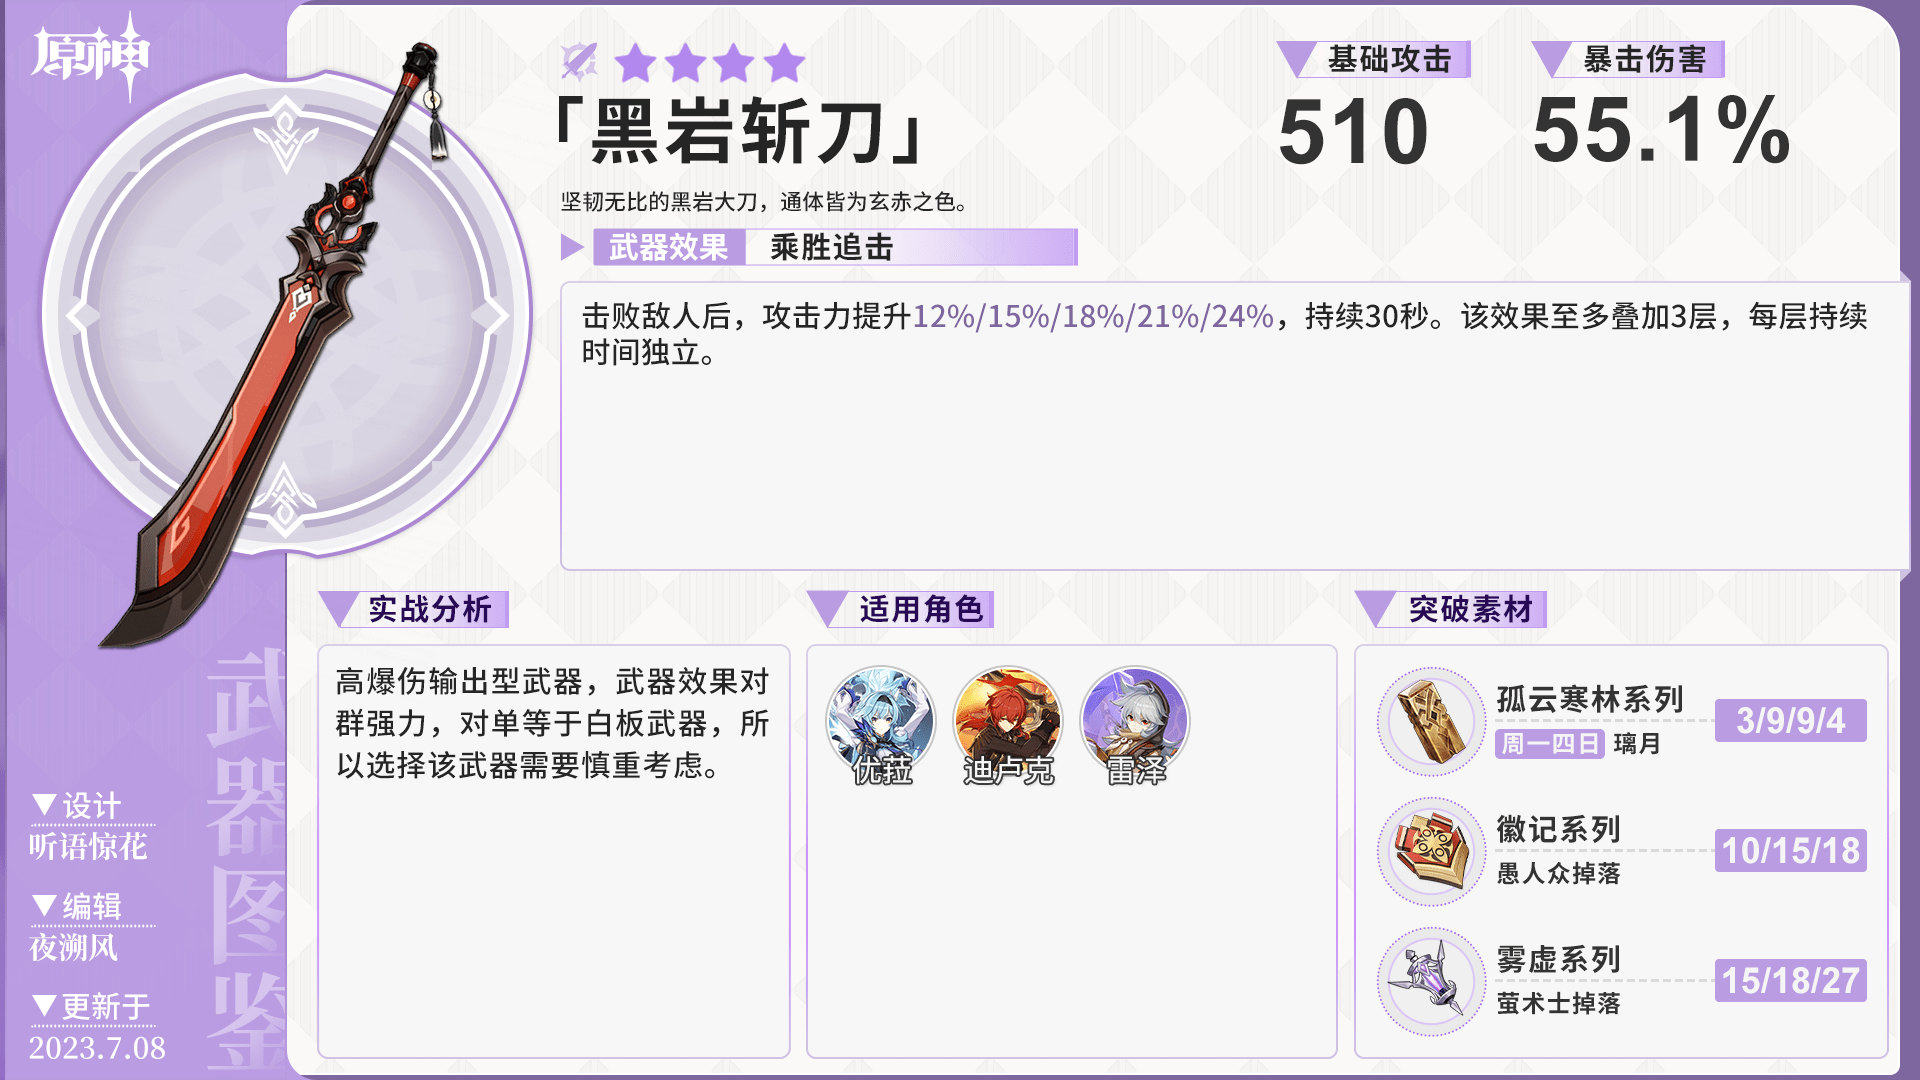
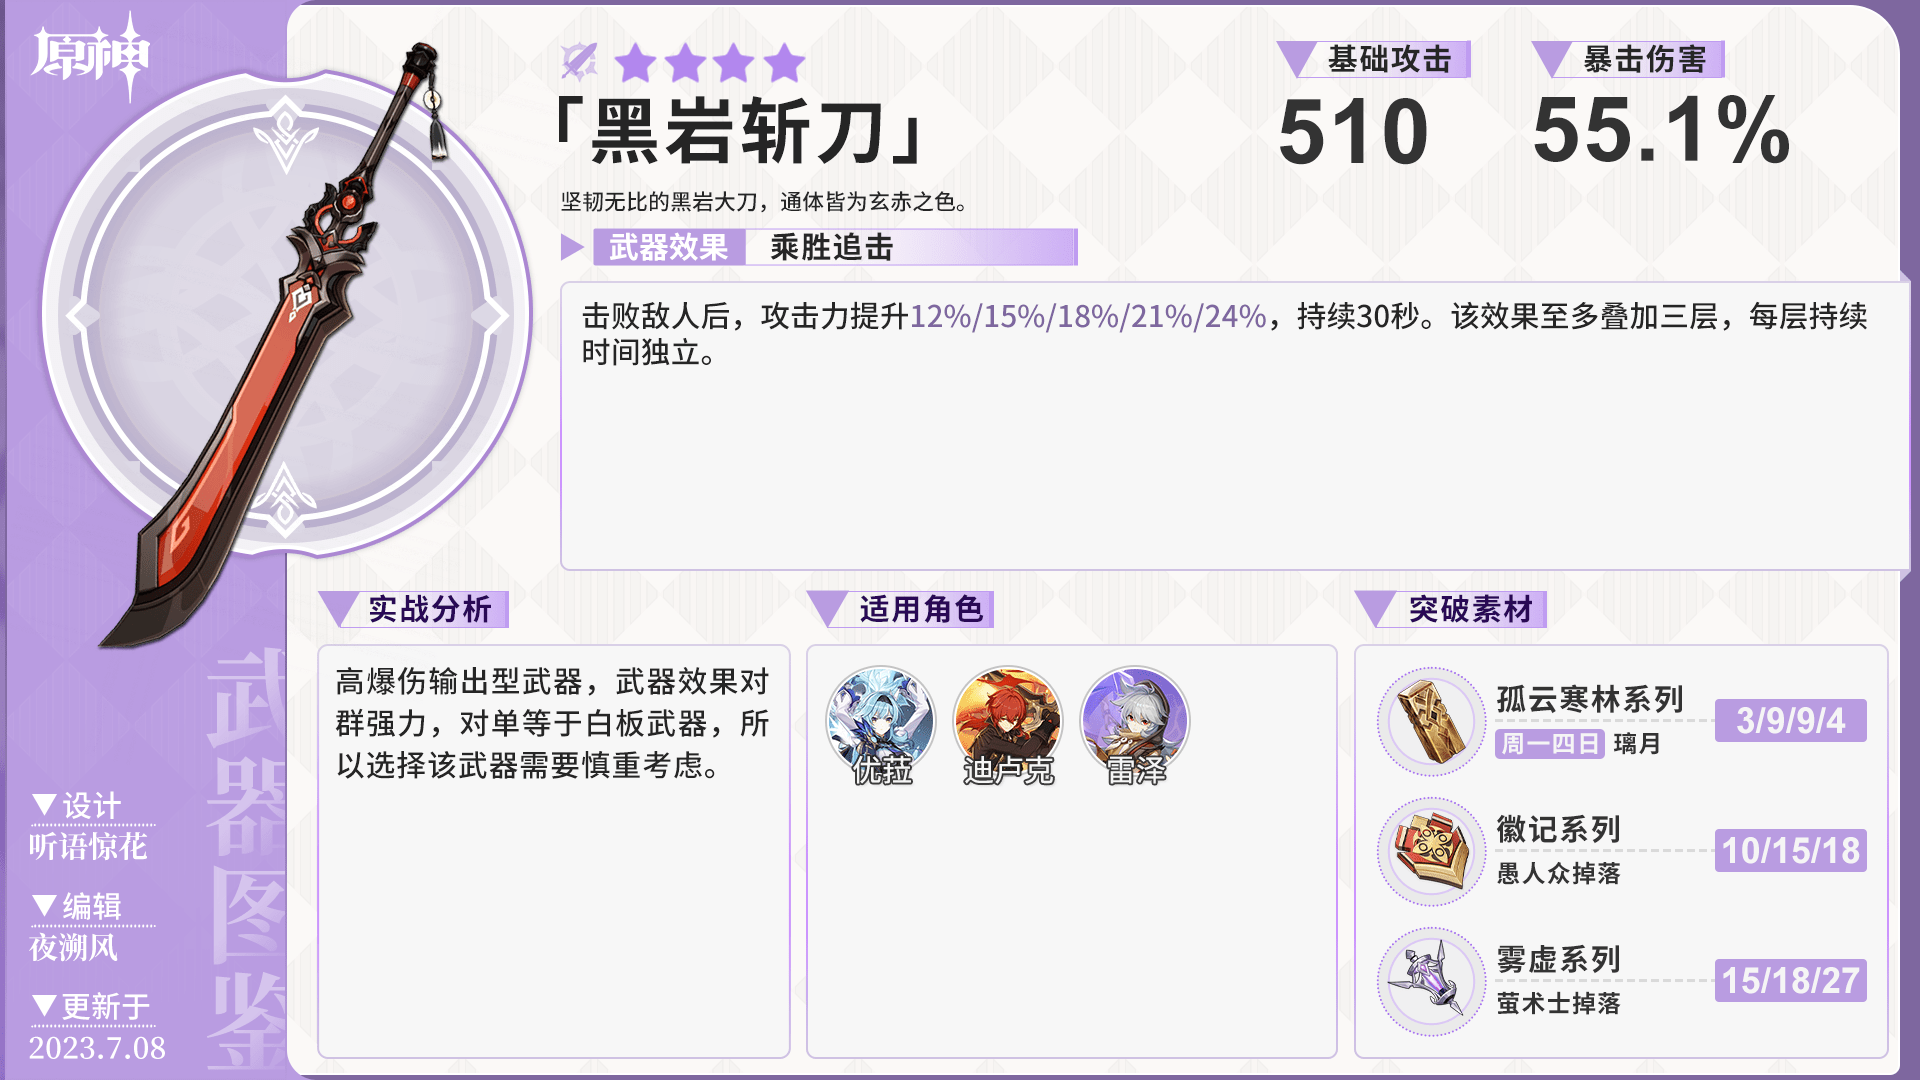
修正部分描述

Changed region(s): [[0.3125, 0.275, 0.9375, 0.3056], [0.5, 0.6417, 0.5312, 0.6722]]

diff --git a/README.md b/README.md
@@ -1,6 +1,14 @@
 # Genshin-Atlas
 Genshin-Atlas是一个主要由[`米游社@听语惊花`](https://bbs.mihoyo.com/ys/accountCenter/postList?id=289918413)（而不是西风驿站）制作的原神(Genshin Impact)游戏图鉴。
 
+## 10.25致歉声明
+
+在原神武器图鉴的武器效果描述中，我们直接使用了biliwiki的原神板块中的对应描述，并未意识到其文本和游戏内的实际文本有所出入，对此侵犯biliwiki创作者创作权益的行为，我深感抱歉。
+
+复制其描述并非我个人本意，在近期的更新中，我将停止这种侵权行为，使用游戏内原本的文本，望取得biliwiki的相关创作者的谅解。
+
+我们在此呼吁广大创作者尊重原创知识版权，保护他人的劳动果实。
+
 ## 目录结构
 - [x] 武器图鉴（更新至4.0）
 - [x] 角色材料（更新至4.0）
